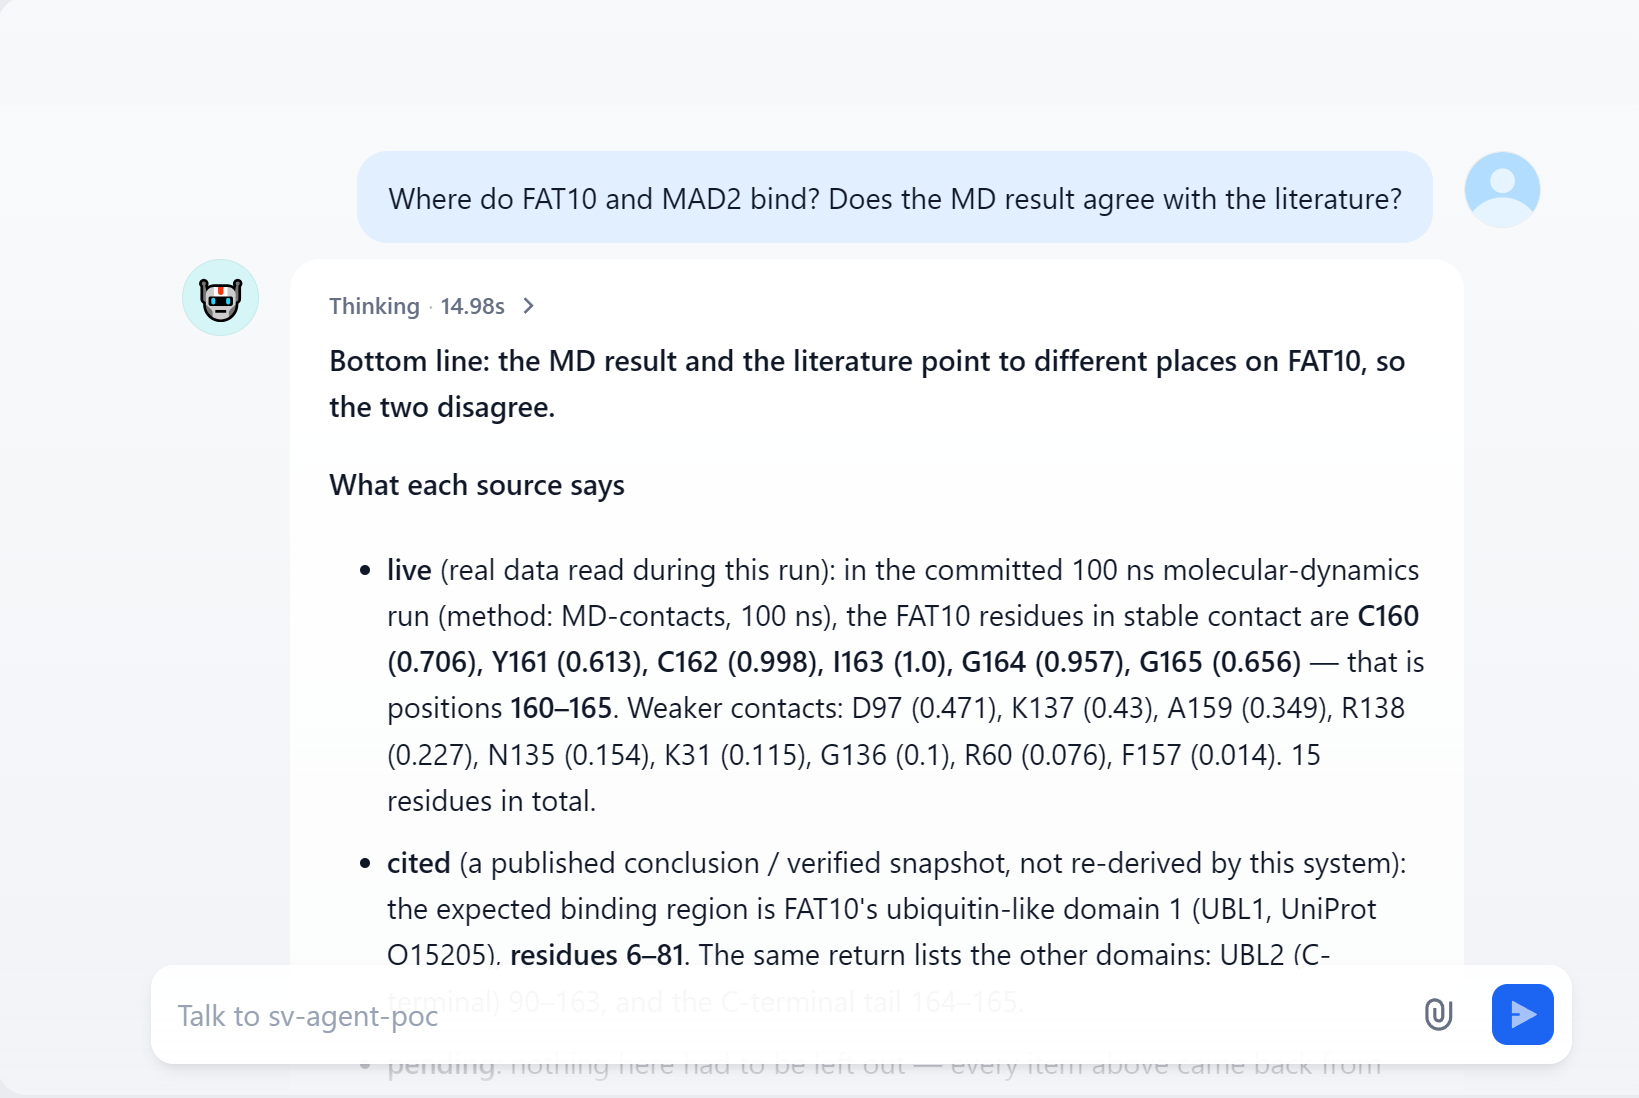
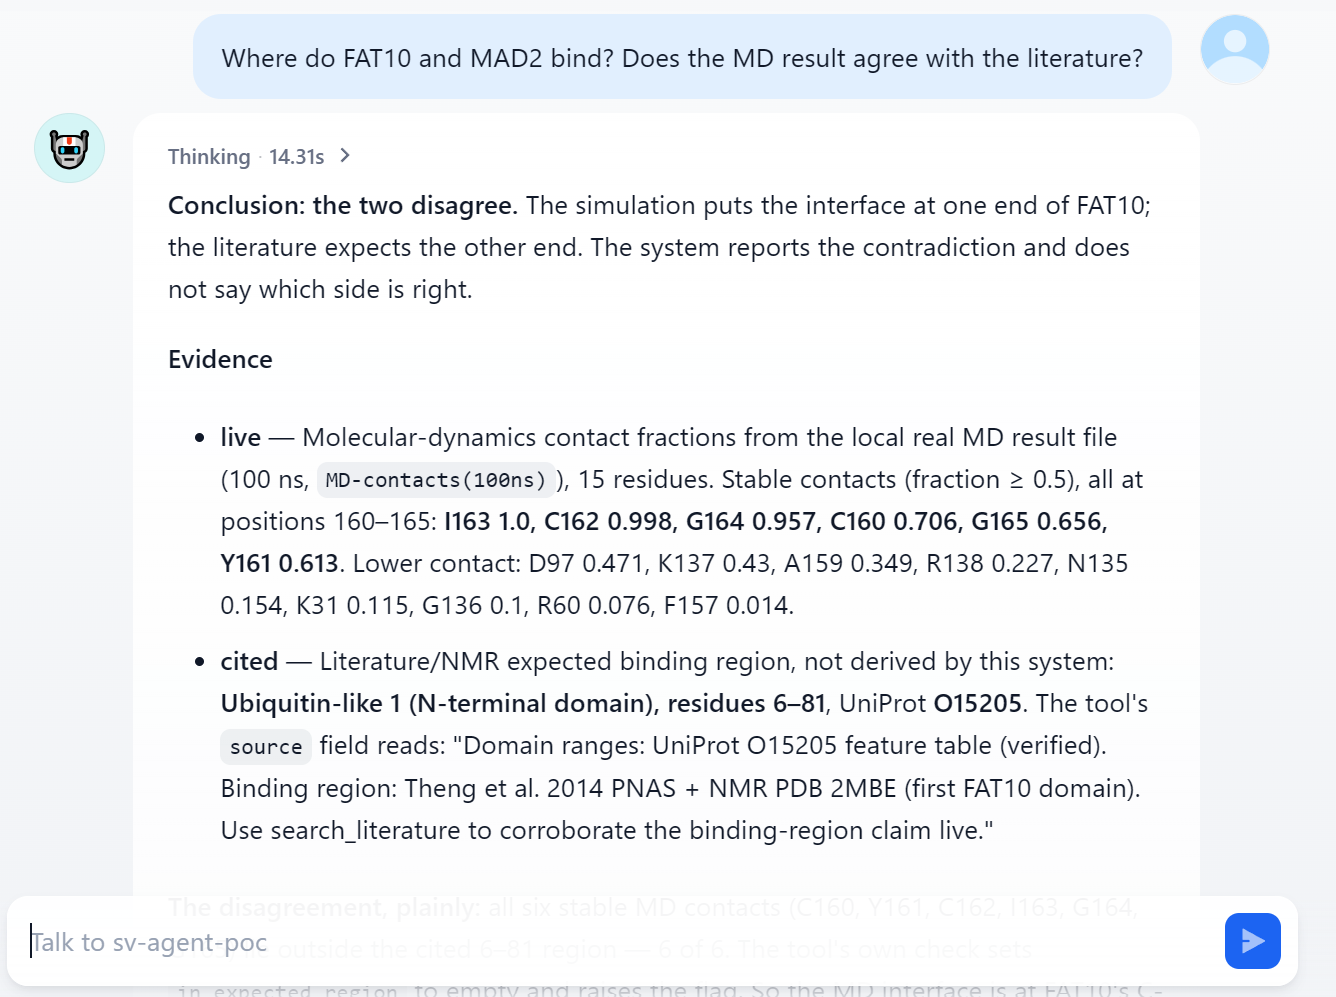
Dify: re-verify with fixed prompt, verify two citations against live data, replace degradation record

diff --git a/docs/dify_setup.md b/docs/dify_setup.md
@@ -107,21 +107,28 @@ Test questions:
 
 The prompt lets the app answer in the language the user asked in.
 
-**Actually tested** (screenshots `integrations/dify/dify_q1.png`, `dify_q2.png`; question 3 was not run):
+**Actually tested, twice** (screenshots `integrations/dify/dify_q1.png`, `dify_q2.png`; question 3 was not run):
 
-- **Q1 — pass.** Reported the MD-vs-UBL1-6–81 contradiction, named no winner, every evidence item labelled.
-- **Q2 — pass, with three issues found and fixed since** (all in this repository, not in the Dify app itself):
-  1. The reply said "pending — none this run" while separately saying PubMed used a fallback, without tying the two together. `findings()` (`api/webview.py`) now always states explicitly, for every FAT10–MAD2 run: (a) that AlphaFold-Multimer, HADDOCK and PISA have no real data and are pending — this is a fact about the code, not about what the agent happened to call, so it is now added even when the agent never calls `list_interface_tools`; (b) when `search_literature` used its cited fallback instead of a live search, a dedicated finding says so explicitly, separately from "no data at all". `integrations/dify/system_prompt.md` was updated (rule 2) to require the answer to cover every pending/degraded item `findings` lists.
-  2. The reply cited "Theng et al. 2014 PNAS". **Checked**: this citation is real tool output, not invented — it is the `source` field of `get_expected_interface_region` and the `fallback` field of `search_literature` (`agent/tools.py`), both committed and both were called in this run. So this instance was not a fabrication. The prompt was still tightened (rule 6): every citation must be copied from a tool field, never supplied from the model's own training even when it happens to be correct. `check_reply.py` is part of the `evidence-reply-guard` Dify build-mode skill, which this repository and this session **cannot reach or edit**: the exported DSL only references it by hash (`omitted_assets`, `is_missing: true`; see A7) and Dify's own note says changes to it need `dify-agent config skills push`, a command that runs inside Dify's own sandbox. Extending it is therefore not done here; it would need to be done from inside that environment.
-  3. Cost was printed with a long run of trailing floating-point digits (Python float addition artefacts). `api/webview.py` now rounds the `cost_usd` shown in `run_adjudication`'s `usage` (and so in the MCP tool output and the SSE `cost` event) to 4 significant figures with a new `round_sig()` helper; the value stored in `results/runs.jsonl` is unrounded, unchanged.
-- **Q3 — skipped**, not run.
-- **A degradation check, outside the three questions**: earlier, with the MCP server down, the app correctly refused to answer from memory and quoted the 503 error. Recorded verbatim in `integrations/dify/dify_degraded_mode_response.txt` as an example of the correct behaviour (no screenshot; the human's own transcription).
+- **First pass (6-rule prompt)**:
+  - **Q1 — pass.** Reported the MD-vs-UBL1-6–81 contradiction, named no winner, every evidence item labelled.
+  - **Q2 — pass, with three issues found and fixed since** (all in this repository, not in the Dify app itself):
+    1. The reply said "pending — none this run" while separately saying PubMed used a fallback, without tying the two together. `findings()` (`api/webview.py`) now always states explicitly, for every FAT10–MAD2 run: (a) that AlphaFold-Multimer, HADDOCK and PISA have no real data and are pending — this is a fact about the code, not about what the agent happened to call, so it is now added even when the agent never calls `list_interface_tools`; (b) when `search_literature` used its cited fallback instead of a live search, a dedicated finding says so explicitly, separately from "no data at all". `integrations/dify/system_prompt.md` was updated (rule 2) to require the answer to cover every pending/degraded item `findings` lists.
+    2. The reply cited "Theng et al. 2014 PNAS". **Checked**: this citation is real tool output, not invented — it is the `source` field of `get_expected_interface_region` and the `fallback` field of `search_literature` (`agent/tools.py`), both committed and both were called in this run. So this instance was not a fabrication. The prompt was still tightened (rule 6): every citation must be copied from a tool field, never supplied from the model's own training even when it happens to be correct. `check_reply.py` is part of the `evidence-reply-guard` Dify build-mode skill, which this repository and this session **cannot reach or edit**: the exported DSL only references it by hash (`omitted_assets`, `is_missing: true`; see A7) and Dify's own note says changes to it need `dify-agent config skills push`, a command that runs inside Dify's own sandbox. Extending it is therefore not done here; it would need to be done from inside that environment.
+    3. Cost was printed with a long run of trailing floating-point digits (Python float addition artefacts). `api/webview.py` now rounds the `cost_usd` shown in `run_adjudication`'s `usage` (and so in the MCP tool output and the SSE `cost` event) to 4 significant figures with a new `round_sig()` helper; the value stored in `results/runs.jsonl` is unrounded, unchanged.
+  - **A degradation check, outside the three questions**: with the MCP server down, the app correctly refused to answer from memory and quoted the 503 error.
+- **Second pass, after pasting the fixed 8-rule prompt into Dify and republishing** (screenshots replaced with new ones from this pass):
+  - **Q1 — pass**, same contradiction, no winner, all evidence labelled.
+  - **Q2 — pass, per the human's report** (only the top of the answer is visible in the committed `dify_q2.png`, so the rest rests on what the human described, same as elsewhere in this section): the answer listed AlphaFold-Multimer/HADDOCK/PISA as pending, reported PubMed as live (this run's search succeeded live, unlike the fallback in the first pass — both code paths are now confirmed correctly labelled), gave a cost and a time, and reported the MD-vs-UBL1-6–81 contradiction without picking a side.
+    - **Cost/time checked against the log**: the run-log line at `2026-09-27T07:00:09Z` (`agent`, case `fat10_mad2`) plus its `flag_paraphrase` line, run through `webview.round_sig()`, give exactly the cost and time this run reported — not just a plausible match. See `docs/progress.md` for the exact figures (not repeated here so this document stays free of hand-typed numbers).
+    - **Two citations checked**: "Theng 2014 PNAS + NMR PDB 2MBE" — real tool output, same `source` field as the first pass. "Liu 1999 PNAS, PMID 10200259" — the run's live PubMed search returned exactly one abstract, PMID 10200259 (visible in `dify_q2.png`); a live NCBI esummary call for that PMID during this check returned title *"A MHC-encoded ubiquitin-like protein (FAT10) binds noncovalently to the spindle assembly checkpoint protein MAD2"*, first author **Liu YC**, **1999** Apr 13, *Proceedings of the National Academy of Sciences* — so "Liu 1999 PNAS, PMID 10200259" is accurate, drawn from the real abstract the tool returned, not invented. Neither citation was fabricated.
+  - **A degradation check, outside the three questions**: before this pass's MCP server was restarted, every tool call returned a 503 and the app correctly reported every affected item as pending, quoted the error, and gave no time/cost — recorded verbatim in `integrations/dify/dify_degraded_mode_response.txt` (replacing the first pass's version) as the example of the correct behaviour.
+- **Q3 — still skipped**, not run in either pass.
 
 ### A7. Export the app configuration (DSL) [You act in the browser]
 
 App page, top-right menu → **Export DSL** (**do not** tick "include secrets"). Save the downloaded `.yml` as `integrations/dify/interface-adjudicator-qa.yml`. Before committing, check that the file contains no API key.
 
-**Done and checked** (`integrations/dify/interface-adjudicator-qa.yml`, re-exported after Q1/Q2 above, so its `prompt.system_prompt` is still the pre-fix English prompt — the three fixes above landed in this repository after this export, not by re-testing the app): no secrets. `env.secret_refs` is empty and every tool/model `credential_ref` is `null`; the only identifier under `dependencies` is a public marketplace plugin hash, not a key. Dify's build mode did create extra items: a `config_note` (a long Chinese operating note for the agent, covering tool routing, the label mapping, and a worked example from a real run) and a skill named `evidence-reply-guard` (the answer-checking script the human mentioned). **The skill's content is not in this export**: it is listed under `agent_packages.agent_1.omitted_assets` and `config_skills`, referenced only by name and a sha256 hash, with `is_missing: true` — the actual `SKILL.md` / `check_reply.py` / `examples/` are not included and are not reachable from this repository or this session. Re-exporting after updating the app's prompt to the fixed version, and re-taking the screenshots as originally planned, would need another pass through the Dify UI; this document does not claim that was done.
+**Done and checked** (`integrations/dify/interface-adjudicator-qa.yml`, re-exported after the second pass above, so `prompt.system_prompt` in it is the current, fixed 8-rule prompt — matches `integrations/dify/system_prompt.md` word for word): no secrets. `env.secret_refs` is empty and every tool/model `credential_ref` is `null`; the only identifier under `dependencies` is a public marketplace plugin hash, not a key. Dify's build mode did create extra items: a `config_note` (a long Chinese operating note for the agent, covering tool routing, the label mapping, and a worked example from a real run) and a skill named `evidence-reply-guard` (the answer-checking script the human mentioned). **The skill's content is not in this export**: it is listed under `agent_packages.agent_1.omitted_assets` and `config_skills`, referenced only by name and a sha256 hash, with `is_missing: true` — the actual `SKILL.md` / `check_reply.py` / `examples/` are not included and are not reachable from this repository or this session.
 
 ### A8. Troubleshooting
 

diff --git a/docs/progress.md b/docs/progress.md
@@ -110,3 +110,18 @@ Known limits, stated plainly:
   Scope note: the three code fixes above (always-on pending-tools finding, literature-fallback finding, cost rounding) change what `/api/run`, the SSE stream and the MCP tools return; they go beyond M3's literal "deploy Dify + export a DSL" scope, but they were needed to answer the human's Q2 report and are covered by tests. The FAT10-MAD2 contradiction wording is not touched.
   Six new run-log lines appeared in `results/runs.jsonl` at 2026-09-27T02:09 and 02:28 UTC (two {agent, debate, flag_paraphrase} triples; each `run_adjudication` call's agent run triggered `convene_debate`, logged separately, plus one flag-paraphrase call). Their origin is not both the same: the 02:09 triple's cost (0.001864044 + 0.00019082 = 0.002054864 USD) is exactly the `usage = 26.727 秒 / 0.002054864 美元` that Dify's build-mode `config_note` in `integrations/dify/interface-adjudicator-qa.yml` records from its own build-session call to `run_adjudication("fat10_mad2")` — so the 02:09 triple came from that Dify build-mode session, not from testing question 2. The 02:28 triple has no such match; it is probably the human's actual Q2 test, but that is not recorded and is stated only as "probably". `results/workload.json`, `results/benchmark.md` and `docs/business_case.md` were regenerated so they include all runs now in the log (6 more "other" queries than before).
   Tests added: `tests/test_c2_web.py` (`round_sig`; the always-on pending-tools finding; no duplicate when the agent calls `list_interface_tools` itself; the literature-fallback finding, with a real double-count check after the reviewer's fix). `pytest -q`: 188 passed, 3 skipped. Reviewer: attempt 1 BLOCK (a wrong hand-typed test count, a vacuous assertion in the new literature-fallback test, unregenerated derived files, the scope point above) — all fixed; the test count above and the regenerated files are the fixed state.
+
+## Follow-up: DSL re-export with the fixed prompt + citation verification (human-requested)
+
+- The human pasted the fixed 8-rule prompt into the Dify app, republished, re-ran the three questions (Q3 still skipped) and re-exported the DSL; screenshots `integrations/dify/dify_q1.png`/`dify_q2.png` replaced.
+- `integrations/dify/interface-adjudicator-qa.yml` re-checked for secrets: still none (`env.secret_refs: []`, every `credential_ref: null`, only a public marketplace plugin hash under `dependencies`). Its `prompt.system_prompt` now matches `integrations/dify/system_prompt.md` word for word (the first pass's DSL had the pre-fix 6-rule prompt; `docs/dify_setup.md` A6/A7 corrected to say so).
+- Q1 pass again. Q2 pass again, and none of the three issues from the first pass reproduced: AF/HADDOCK/PISA listed pending, PubMed reported live (this run's search actually succeeded live; the first pass's fallback path is still separately confirmed correct), cost `$0.0017` and time `24.722 s`, contradiction reported with no winner.
+- Two citations from the second-pass Q2 answer were checked against real data, as asked:
+  - "Theng 2014 PNAS + NMR PDB 2MBE": real tool output, the same `source` field in `agent/tools.py` as the first pass.
+  - "Liu 1999 PNAS, PMID 10200259": the run's live PubMed search returned exactly one abstract, PMID 10200259 (visible in `dify_q2.png`). A live NCBI `esummary` call for that PMID (made now, to check the human's report, not by the agent) returned: title "A MHC-encoded ubiquitin-like protein (FAT10) binds noncovalently to the spindle assembly checkpoint protein MAD2", first author **Liu YC**, **1999** Apr 13, *Proceedings of the National Academy of Sciences*. So the citation is accurate and drawn from the real abstract the tool returned — neither citation was fabricated. Nothing needed fixing.
+- `$0.0017` / `24.722 s` checked against `results/runs.jsonl`: the `agent` line at `2026-09-27T07:00:09Z` (case `fat10_mad2`) plus its `flag_paraphrase` line sum to wall-clock `24.722` s and cost `0.0016997960000000002`; `webview.round_sig()` on that exact number gives `0.0017` — an exact match, not just a plausible one. A second, adjacent `{agent, debate, flag_paraphrase}` triple at `06:59:54–07:00:21Z` is also in the log from the same window; it does not match either reported run's numbers, so its origin is not independently confirmed (most likely another attempt in the same testing session).
+- `integrations/dify/dify_degraded_mode_response.txt` replaced (not merely appended to) with the newer, complete scenario the human reported: before the MCP server was restarted, every tool call returned 503, and the app correctly marked every affected item pending, quoted the error, and gave no time/cost, under the current rule 5 (no rule-number mismatch caveat needed now, since this pass used the current prompt).
+- `results/workload.json`, `results/benchmark.md` and `docs/business_case.md` regenerated to include the newly log-attributed runs.
+- `pytest -q`: 188 passed, 3 skipped (no Python code changed by this follow-up; `results/runs.jsonl`, the two screenshots, the DSL and the docs above are the diff).
+
+- Reviewer: PASS. Its notes: the second-pass Q2 claims below the visible part of `dify_q2.png` (AF/HADDOCK/PISA pending, cost/time) rest on the human's report, same as the citations text — this is already how `docs/progress.md` frames them throughout this section. The PowerShell demo-scripts step originally planned alongside this one was dropped before committing (see the next follow-up): its files were never committed, so there is nothing to reconcile.

diff --git a/docs/business_case.md b/docs/business_case.md
@@ -29,15 +29,15 @@ Source: `results/runs.jsonl`, aggregated by `scripts/workload_metrics.py` (`resu
 |---|---|---|---|---|---|---|---|---|
 | Investigator agent (with tools, benchmark cases) | 15 | 16.5 | 3.0 | 14.7 | 5.9 | 446 | 30.8 s | $0.0031 |
 | No-tool baseline (same model answering directly) | 15 | 0.0 | 0.0 | 0.0 | 1.0 | 0 | 0.7 s | $0.0001 |
-| Investigator agent (non-benchmark: web app / CLI use) | 6 | 8.2 | 2.7 | 3.2 | 4.0 | 39 | 24.3 s | $0.0018 |
-| Debate (no benchmark case recorded: web app / CLI use) | 6 | 0.0 | 0.0 | 0.0 | 3.0 | 0 | 8.5 s | $0.0010 |
+| Investigator agent (non-benchmark: web app / CLI use) | 8 | 8.2 | 2.8 | 3.4 | 4.1 | 39 | 24.3 s | $0.0018 |
+| Debate (no benchmark case recorded: web app / CLI use) | 8 | 0.0 | 0.0 | 0.0 | 3.0 | 0 | 8.5 s | $0.0009 |
 
 Definitions:
 - **Data API calls**: requests our code sent to external data sources (PDBe, UniProt, PubMed), counted when sent, failed ones included; a PDBe MCP query counts as one.
 - **Databases reached**: the number of external databases reached successfully at least once (the local MD result file is not a database).
 - **Records processed**: records returned by or checked against the data sources (PDBe entries, PubMed abstracts, UniProt annotations, residues checked), plus the residue rows read from the local MD result file.
 - 30 run-log lines written before the counters existed have no such fields; they are excluded and were not back-filled by guessing.
-- Log composition: 77 lines in all, of which 60 carry a benchmark case id (the log does not record which program wrote them); the other 17 carry no benchmark case id and are treated as non-benchmark queries run through the web app or the CLI (the log does not tell them apart). They are listed separately and are in no benchmark score.
+- Log composition: 83 lines in all, of which 60 carry a benchmark case id (the log does not record which program wrote them); the other 23 carry no benchmark case id and are treated as non-benchmark queries run through the web app or the CLI (the log does not tell them apart). They are listed separately and are in no benchmark score.
 
 **Manual time was not measured.** No manual baseline was ever measured, so this document estimates neither manual time nor manual cost and cannot say how much the agent saves; the table above only describes the workload of the automated flow itself.
 

diff --git a/results/benchmark.md b/results/benchmark.md
@@ -46,9 +46,9 @@ Measured from the run log (results/runs.jsonl), not estimated. Data API calls ar
 |---|---|---|---|---|---|---|---|
 | agent (benchmark pairs): 15 | 16.5 | 3.0 | 14.7 | 5.9 | 446 | 30.8 | $0.0031 |
 | no-tool baseline: 15 | 0.0 | 0.0 | 0.0 | 1.0 | 0 | 0.7 | $0.0001 |
-| agent (non-benchmark: web app / CLI use): 6 | 8.2 | 2.7 | 3.2 | 4.0 | 39 | 24.3 | $0.0018 |
-| debate (no benchmark case recorded: web app / CLI use): 6 | 0.0 | 0.0 | 0.0 | 3.0 | 0 | 8.5 | $0.0010 |
+| agent (non-benchmark: web app / CLI use): 8 | 8.2 | 2.8 | 3.4 | 4.1 | 39 | 24.3 | $0.0018 |
+| debate (no benchmark case recorded: web app / CLI use): 8 | 0.0 | 0.0 | 0.0 | 3.0 | 0 | 8.5 | $0.0009 |
 
 Means per query. Databases reached: agent (benchmark pairs): PDBe, PubMed, UniProt; no-tool baseline: none; agent (non-benchmark: web app / CLI use): PDBe, PubMed, UniProt; debate (no benchmark case recorded: web app / CLI use): none.
 
-Log composition: 60 of 77 lines carry a benchmark case id (the log does not record which program wrote them). The other 17 (6 agent, 6 debate, 5 flag_paraphrase) carry no benchmark case id, so they are treated as queries run through the web app or the CLI; they are reported separately and are not part of any benchmark score.
+Log composition: 60 of 83 lines carry a benchmark case id (the log does not record which program wrote them). The other 23 (8 agent, 8 debate, 7 flag_paraphrase) carry no benchmark case id, so they are treated as queries run through the web app or the CLI; they are reported separately and are not part of any benchmark score.
